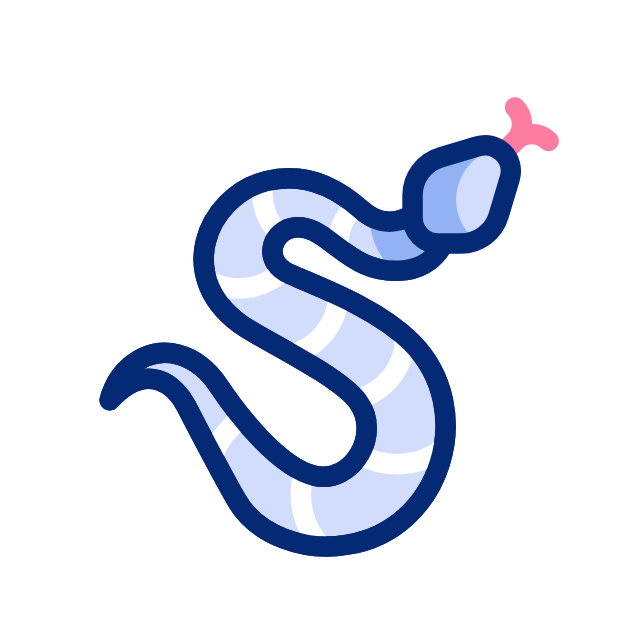
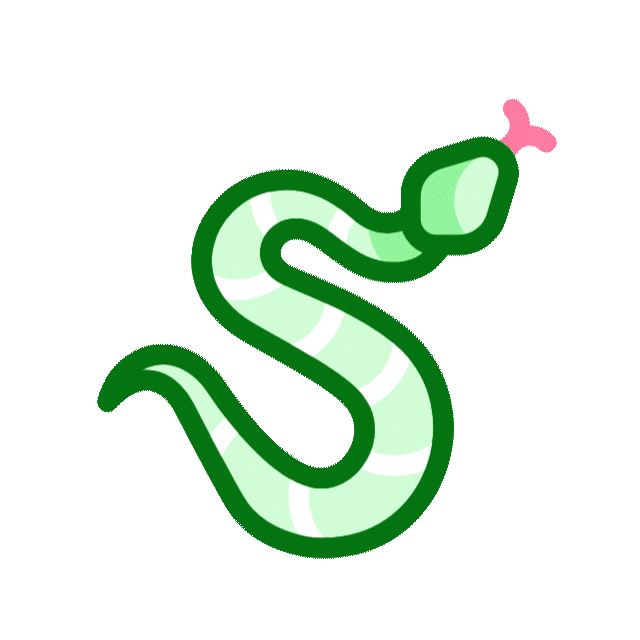
Cambios botones de la seleccion de modos

Changed region(s): [[0.1562, 0.1562, 0.875, 0.875]]

diff --git a/src/App.css b/src/App.css
@@ -123,47 +123,90 @@ body{
   }
  
 
-  .ModeMenuButton{
-    cursor: pointer;
+  .ModeMenuButton {
     width: 100%;
     aspect-ratio: 1/1;
+    position: relative;
+    align-self: center;
+    background-color: #EDE8D0;
+    background-image: none;
+    background-position: 0 90%;
+    background-repeat: repeat no-repeat;
+    background-size: 4px 3px;
+    border-radius: 15px 225px 255px 15px 15px 255px 225px 15px;
+    border-style: solid;
+    border-width: 2px;
+    box-shadow: rgba(0, 0, 0, .2) 15px 28px 25px -18px;
+    box-sizing: border-box;
+    color: #41403e;
+    cursor: pointer;
     display: flex;
     flex-direction: column;
     align-items: center;
     justify-content: center;
-    position: relative;
-    background: transparent;
-    padding: 0;
-    margin: 0;
-    border-radius: 10px;
-
-    gap: 5%;
-  }
-  
-  .ModeMenuButton:hover,
-  .ModeMenuButton:focus,
-  .ModeMenuButton:active {
-    background: transparent;
+    font-size: clamp(0.875rem, 2vw, 1rem);
+    line-height: 23px;
     outline: none;
+    padding: clamp(0.5rem, 2vw, 0.75rem);
+    text-decoration: none;
+    transition: all 235ms ease-in-out;
+    border-bottom-left-radius: 15px 255px;
+    border-bottom-right-radius: 225px 15px;
+    border-top-left-radius: 255px 15px;
+    border-top-right-radius: 15px 225px;
+    user-select: none;
+    -webkit-user-select: none;
+    touch-action: manipulation;
+    gap: 5%;
+
   }
   
+  .ModeMenuButton:hover {
+    box-shadow: rgba(0, 0, 0, .3) 2px 8px 8px -5px;
+    transform: translate3d(0, 2px, 0);
+  }
+  
+  .ModeMenuButton:focus {
+    box-shadow: rgba(0, 0, 0, .3) 2px 8px 4px -6px;
+  }
   
   
 
   .iconButtonMenu {
     width: 80%;
     height: 70%;
-    background-image: url('/serpiente_static.png');
     background-size: contain;
     background-repeat: no-repeat;
     background-position: center;
     transition: background-image 0.3s;
   }
 
-  .ModeMenuButton:hover .iconButtonMenu {
+  
+
+
+  #SingleButton{
+    background-image: url('/serpiente_static.png');
+  }
+
+  .ModeMenuButton:hover  #SingleButton{
     background-image: url('/serpiente.gif');
   }
 
+  #LocalButton{
+    background-image: url('/serpiente_Local_static.png');
+  }
+
+  .ModeMenuButton:hover #LocalButton{
+    background-image: url('/serpiente_Local.gif');
+  }
+
+  #MultiButton{
+    background-image: url('/serpiente_Multi_static.png');
+  }
+
+  .ModeMenuButton:hover    #MultiButton{
+    background-image: url('/serpiente_Multi.gif');
+  }
 
   .atribucion {
     font-size: 6px;

diff --git a/src/components/pages/menu.tsx b/src/components/pages/menu.tsx
@@ -7,19 +7,19 @@ export const Menu = ()=>{
                 <div className='MenuButtoms'>
                 <Link to="/Snake-1v1/singleplayer">
                     <button className='ModeMenuButton'>
-                        <div className="iconButtonMenu" />
+                        <div className="iconButtonMenu" id="SingleButton"/>
                         <span> Single Player</span> 
                     </button>
                 </Link>
                 <Link to="/Snake-1v1/Multi-local">
                     <button className='ModeMenuButton'>
-                        <div className="iconButtonMenu" />
+                        <div className="iconButtonMenu" id="LocalButton" />
                         <span> Multi Local</span> 
                     </button>
                 </Link>
                 <Link to="/Snake-1v1/Multi-online">
                     <button className='ModeMenuButton'>
-                        <div className="iconButtonMenu" />
+                        <div className="iconButtonMenu" id="MultiButton" />
                         <span> Multi Online</span> 
                     </button>
                 </Link>
